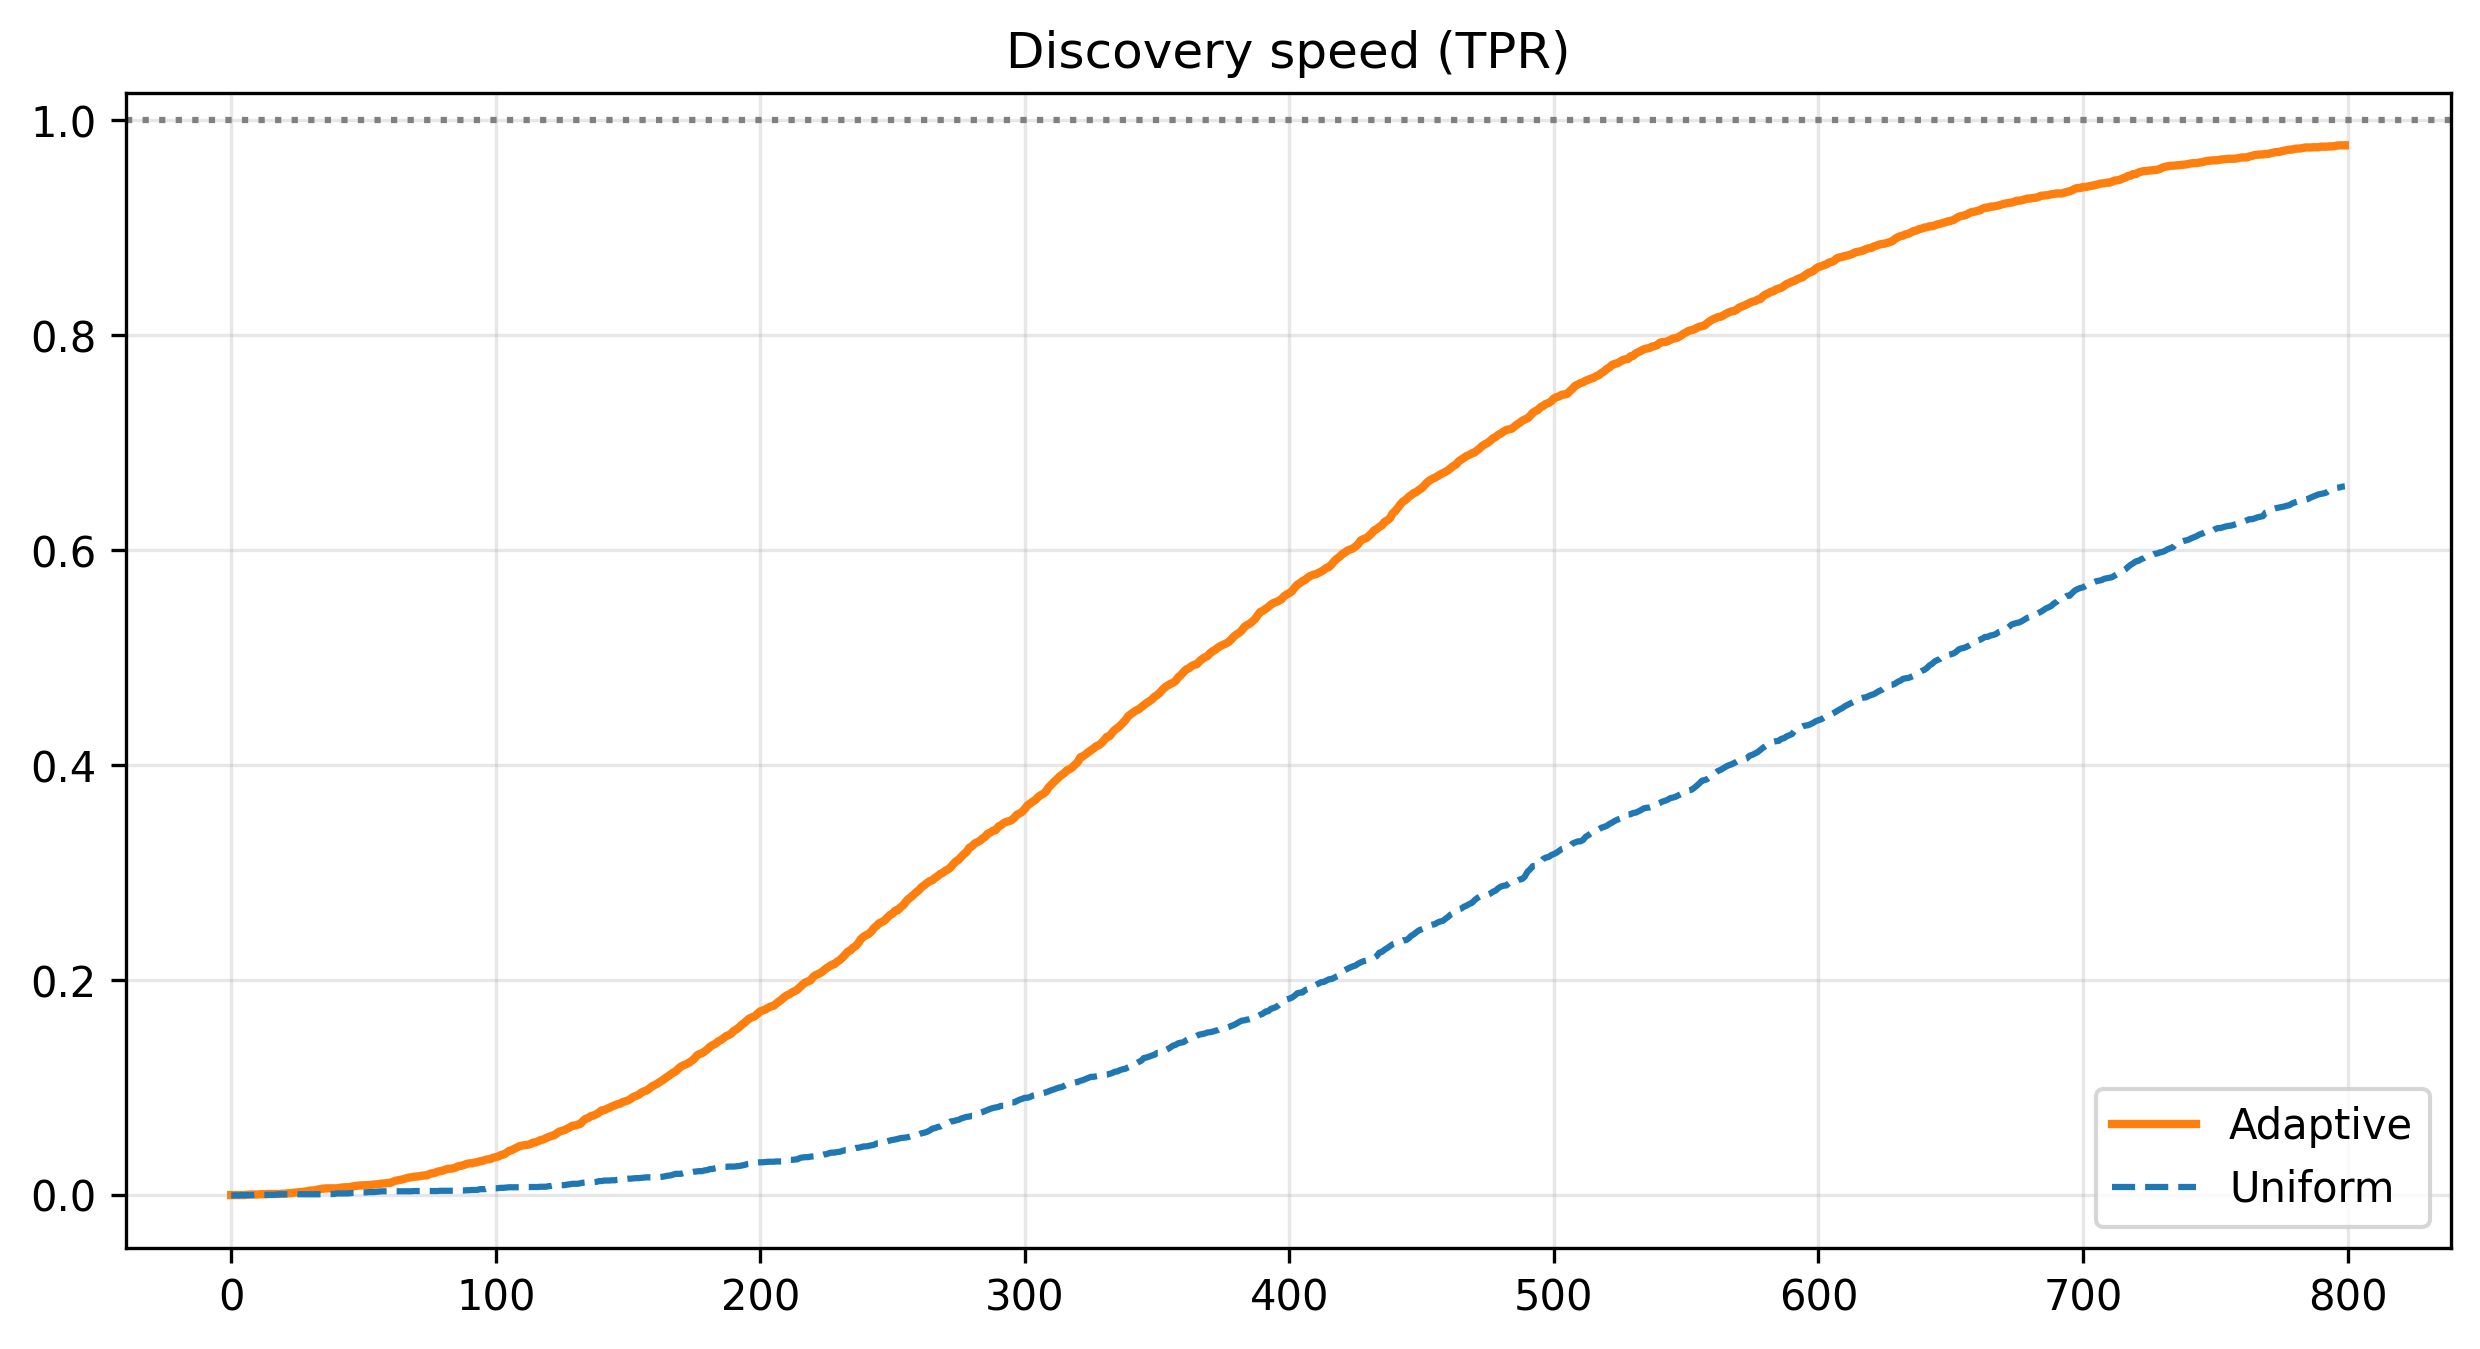
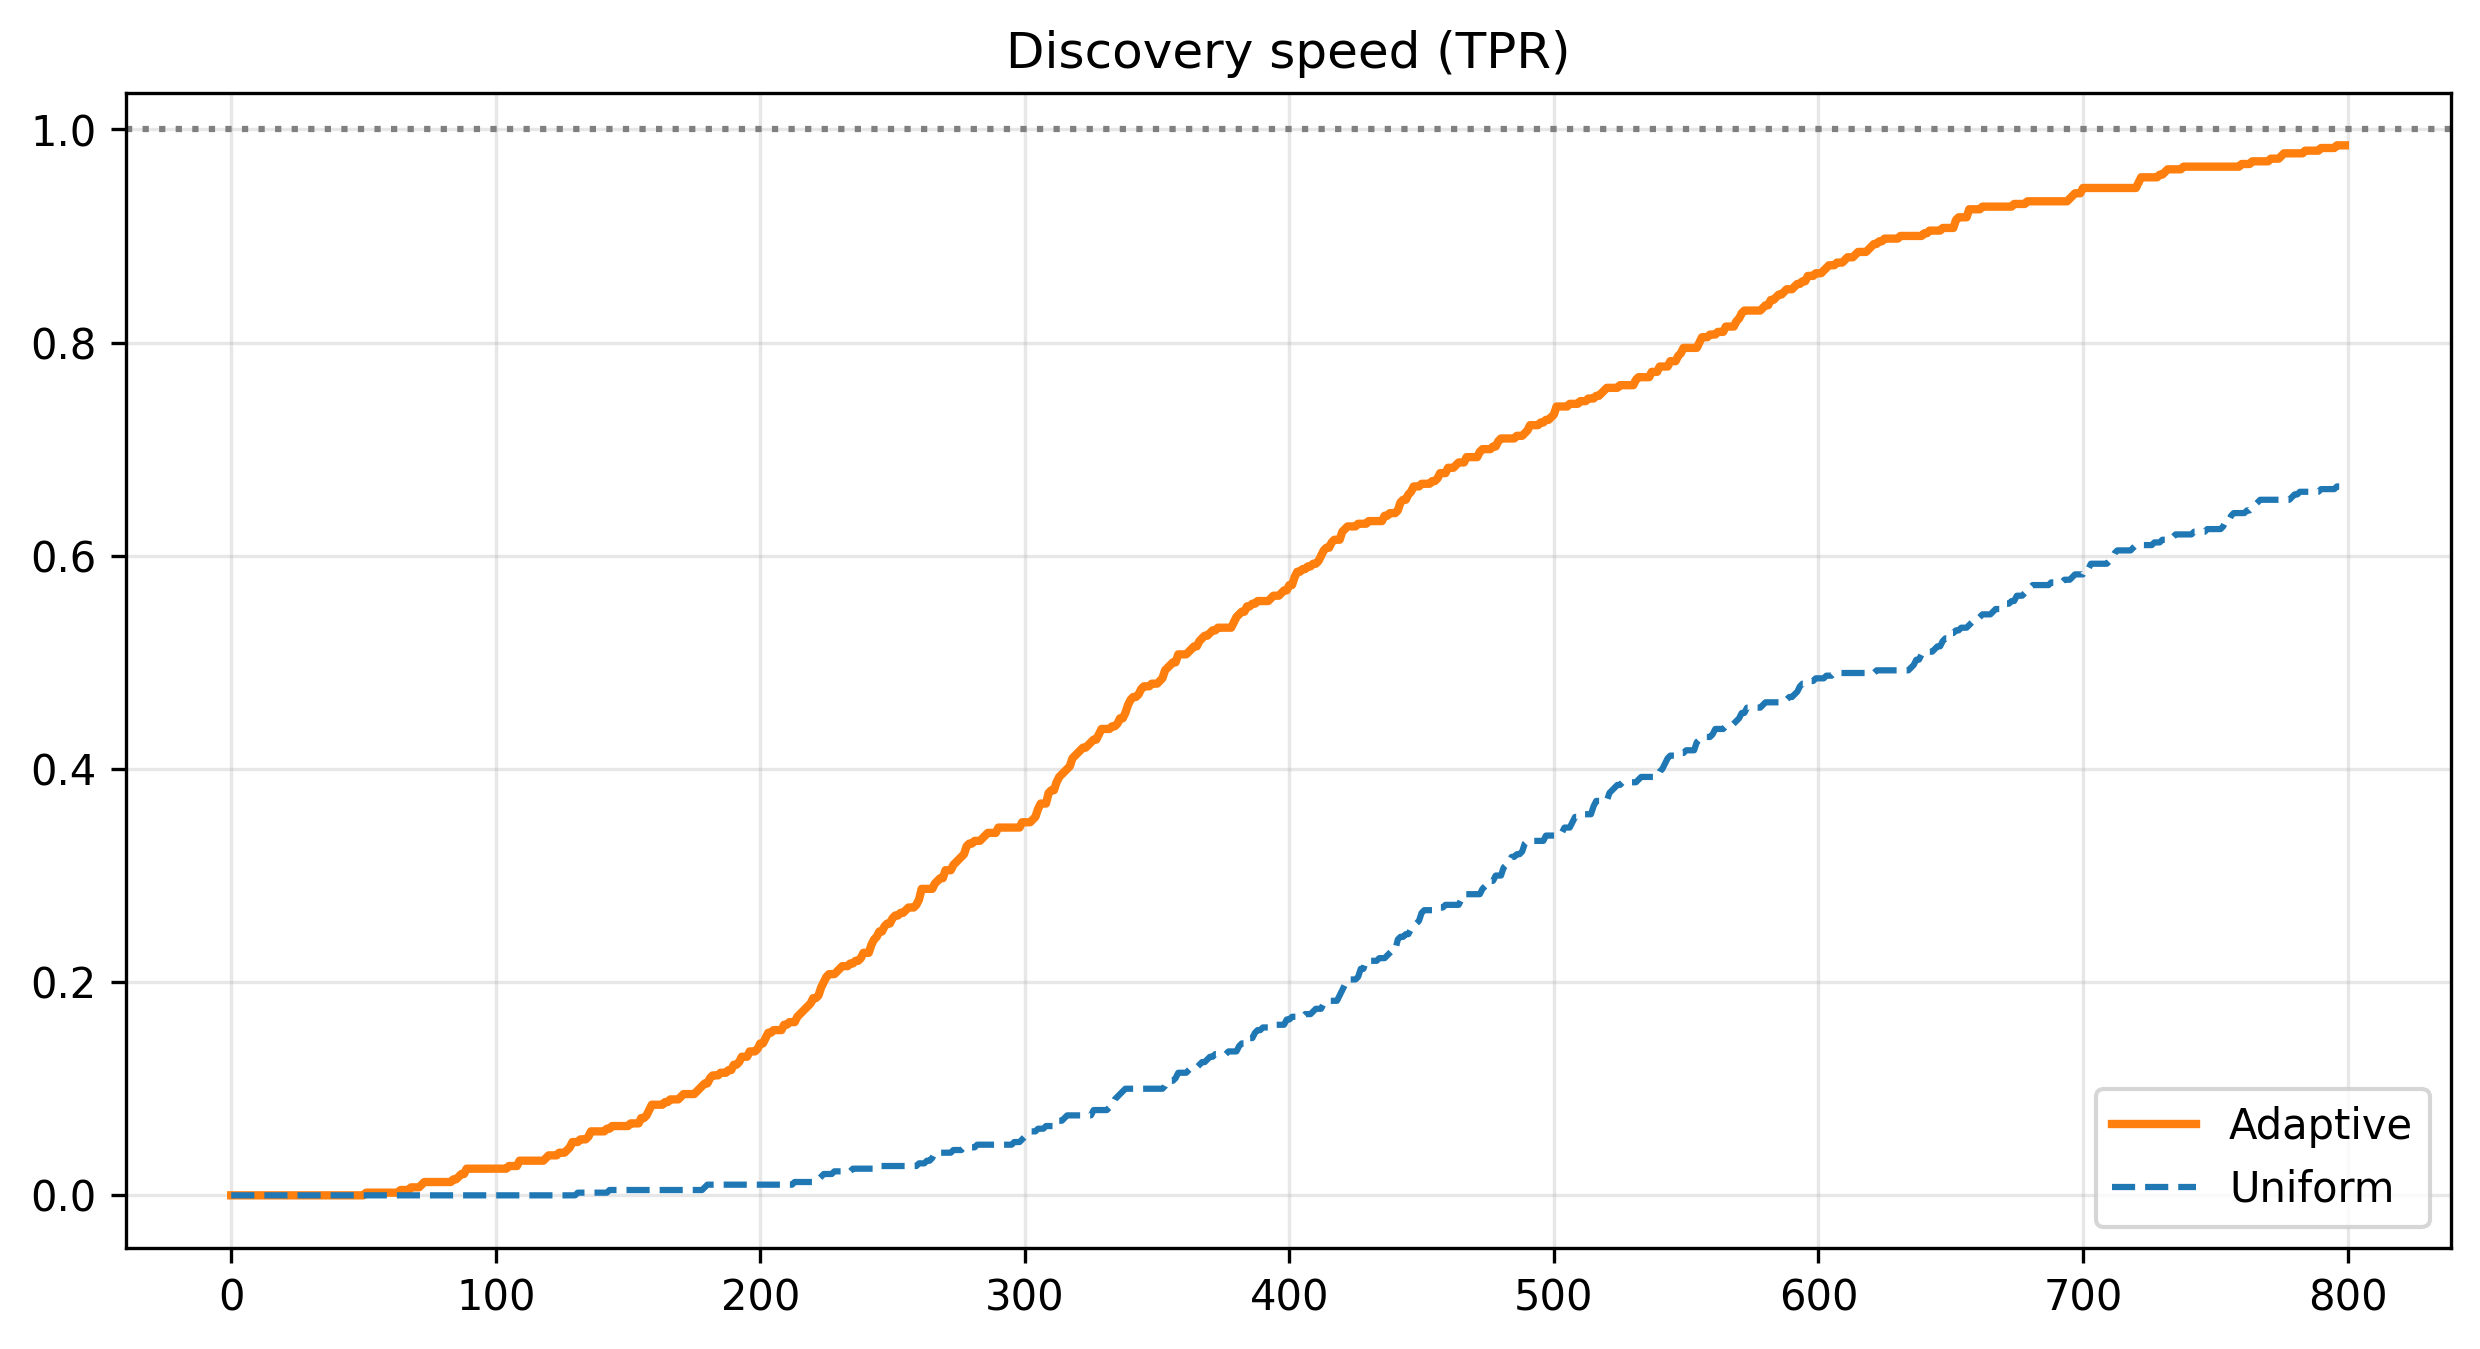
correction of the figure 4 and 5

diff --git a/backend/reconstitutive_algorithm.py b/backend/reconstitutive_algorithm.py
@@ -624,7 +624,7 @@ if __name__ == "__main__":
     mu_0 = 0.0
     delta = 0.05
     horizon = 800
-    n_sims = 1000
+    n_sims = 100
     
     true_means = np.array([0.5, 0.5, 0.35, 0.35, 0.0, 0.0])
     n_arms = len(true_means)
